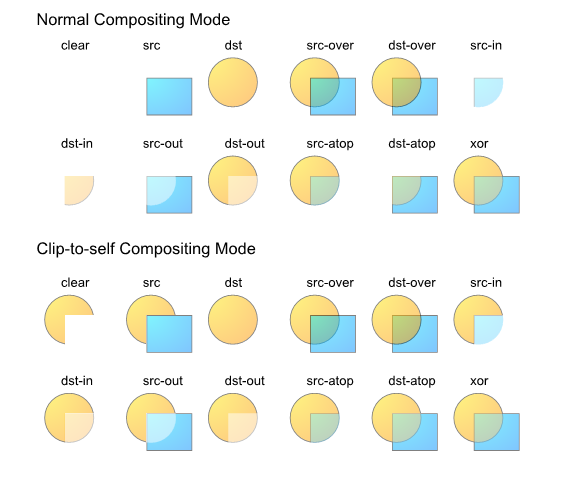
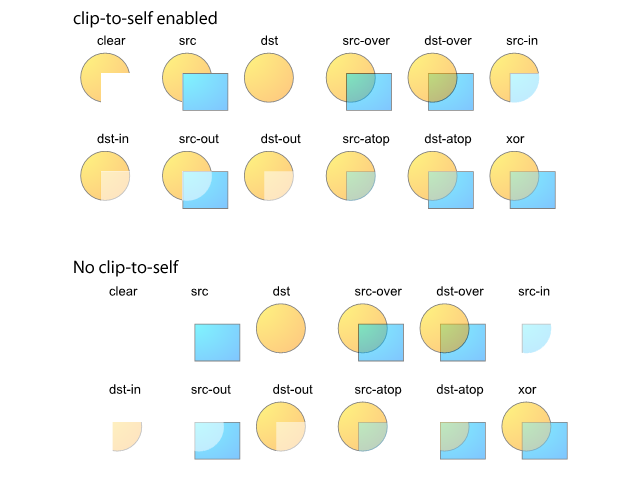
Finished off PD section.

diff --git a/compositing/index.html b/compositing/index.html
@@ -859,24 +859,18 @@ co = RGB(255, 127, 127)
 
   <dl>
    <dt>initial backdrop
-  </dl>
 
-  <dl></dl>
+   <dd> The intial backdrop is the backdrop selected for compositing the
+    group's first element. This will be the same as the group backdrop in a
+    non-isolated group, or a fully transparent backdrop for an isolated
+    group.
 
-  <p>The intial backdrop is the backdrop selected for compositing the group's
-   first element. This will be the same as the group backdrop in a
-   non-isolated group, or a fully transparent backdrop for an isolated group.
-   
-
-  <dl>
    <dt>group backdrop
+
+   <dd> The group backdrop is the result of compositing all elements up to
+    but not including the frist element in the group. The use of <a
+    href="#knockoutgroups">knockout groups</a> changes this definition.
   </dl>
-
-  <dl></dl>
-
-  <p>The group backdrop is the result of compositing all elements up to but
-   not including the frist element in the group. The use of <a
-   href="#knockoutgroups">knockout groups</a> changes this definition.
 
   <h3 id=groupinvariance><span class=secno>4.1. </span>Group invariance</h3>
 
@@ -917,7 +911,9 @@ co = RGB(255, 127, 127)
    Instead, only the elements that are behind the knockout group are included
    in the backdrop.
 
-  <div class=example> <img src="examples/knockout.png"></div>
+  <div class=example>
+   <p style="text-align:center"><img src="examples/knockout.png"></p>
+  </div>
 
   <p> The above example demonstrates two versions of a group containing three
    squares (red, green, blue) that are 50% opaque. The group is composited
@@ -937,29 +933,44 @@ co = RGB(255, 127, 127)
    additional compositing operators allow for more complex interactions
    between the shapes of elements being composited. The compositing operators
    are described in <a href="#porterduffcompositingoperators">‘<code
-   class=css>The Porter-Duff compositing operators</code>’</a>. Porter Duff
-   compositing is based on a model of a pixel in which two shapes (source and
-   destination) may contribute to the final colour of the pixel. The pixel is
-   divided into 4 sub-pixel regions and each region represents a possible
-   combination of source and destination.<br>
+   class=css>The Porter-Duff compositing operators</code>’</a>. The
+   operators that applies to an element or group is selected using the <a
+   href="#propdef-alpha-compositing">alpha-compositing</a>property.
+
+  <p> Porter Duff compositing is based on a model of a pixel in which two
+   shapes (source and destination) may contribute to the final colour of the
+   pixel. The pixel is divided into 4 sub-pixel regions and each region
+   represents a possible combination of source and destination.<br>
    <br>
    The four regions are:
 
-  <ul>
-   <li>Source Only – Where only the source contributes to the pixel colour
+  <dl>
+   <dt>Source Only
 
-   <li>Destination only – where only the destination contributes to the
-    pixel colour
+   <dd>Where only the source contributes to the pixel colour
 
-   <li>Both - Source and Destination – where both the source and
-    destination may combine to define the pixel colour
+   <dt>Destination only
 
-   <li>None - No source or Destination – where neither make a contribution
-    to the final pixel colour
-  </ul>
+   <dd>where only the destination contributes to the pixel colour
+
+   <dt>Both
+
+   <dd>Source and Destination – where both the source and destination may
+    combine to define the pixel colour
+
+   <dt>None
+
+   <dd>No source or Destination – where neither make a contribution to the
+    final pixel colour
+  </dl>
+
+  <p class=note>Destination is synonymous with backdrop. The term destination
+   is used in this section as this is considered the standard when working
+   with Porter Duff compositing. Additionally, the compositing operators use
+   ‘<code class=property>dest</code>’ in their names.
 
   <div class=figure>
-   <p style="text-align:center"><img src="examples/PD_regions.svg">
+   <p style="text-align:center"><img src="examples/PD_regions.svg"></p>
   </div>
 
   <p>The contribution from each region to the final pixel colour is defined
@@ -1224,40 +1235,54 @@ None = (1 – 0.5)(1 – 0.5) = 0.25
   <h3 id=groupcompositing><span class=secno>5.2. </span>Group compositing
    behavior with Porter Duff modes</h3>
 
-  <p><span class=issue>DRAFT.This proposal needs more discussion.</span><br>
-
   <h4 id=groupcompositingisolation><span class=secno>5.2.1. </span>Isolated
    groups and Porter Duff modes</h4>
 
-  <p>Using Porter Duff within an isolated group has the effect of making the
-   backdrop empty for the first element within the group. Subsequent elements
-   are composited with the result of the previous composites.
+  <p><span class=issue>NA: We need to decide whether we merge
+   enable-background and isolation. Personally, I think we should. We could
+   possibly have a third value for isolation which isolates only the blend
+   modes.</span><br>
+
+  <p> When compositing the elements within an isolated group, the elements
+   are composited over an empty (RGBA(0, 0, 0, 0)) initial backdrop. If the
+   bottom element in the group uses a Porter-Duff compositing operator which
+   is dependent on the backdrop, such as dest, source-in, dest-in, dest-out
+   or src-atop, then the result of the composite will be empty. Subsequent
+   elements within the group are composited with the result of the first
+   composite.
 
   <h4 id=groupcompositingknockout><span class=secno>5.2.2. </span>Knockout
    groups and Porter Duff modes</h4>
 
-  <p> Knock out groups have the effect, prior to any compositing, of clearing
-   the backdrop anywhere that the source shape exists, this is independent of
-   the source alpha. Knock-out can also be thought of as inserting a clear
-   operation with clip-to-self enabled between each element in the
-   compositing stack.
+  <p> Every element within a knock-out group is composited with the initial
+   backdrop. This means, that for every element within the group, the
+   backdrop for the compositing of that element, is the initial backdrop.
+
+  <p> In the example below, the elements within the group (the circle and the
+   square) are composited using the <a
+   href="#porterduffcompositingoperators_srcatop">src-atop</a> operator, with
+   only the hexagon. This has the effect of ‘<code class=css>knocking
+   out</code>’ the circle, where it is overlapped by the square.<br>
+   Additionally, because the src-atop Porter-Duff operator is used, the
+   source shape (either the square or the circle) is only placed where the
+   backdrop exists (the backdrop is always the hexagon due to the knock-out
+   mode).
+
+  <div class=example><img src="examples/pd-knockout.png"></div>
 
   <h4 id=groupcompositingcliptoself><span class=secno>5.2.3. </span>Clip to
    self behavior</h4>
 
-  <p> <span class=issue>NA: Do we use bounding box for clip to self or areas
-   where shape exists (α > 0)?</span> When compositing, the areas of the
-   composite that may be modified by the compositing operation, must fall
-   within the bounding box of th element being composited (i.e. α > 0). This
-   is known as ‘<code class=css>clip to self</code>’ in some graphics
-   libraries. The alternative is to not clip the compositing operation at
-   all. The results can be seen below. Some of the Porter Duff operators are
-   unchanged, because they normally have no effect outside the source region.
-   The changes can be seen in the clear, src, src-in, dst-in, src-out and
-   dst-atop. <span class=issue>NA: Fix the image so it is relevant to the
-   text - once text finalised.</span>
+  <p> When compositing, the areas of the composite that may be modified by
+   the compositing operation, must fall within the shape of the element being
+   composited (i.e. where α > 0). This is known as ‘<code class=css>clip
+   to self</code>’ in some graphics libraries. The alternative is to not
+   clip the compositing operation at all. The results can be seen below. Some
+   of the Porter Duff operators are unchanged, because they normally have no
+   effect outside the source region. The changes can be seen in the clear,
+   src, src-in, dst-in, src-out and dst-atop.
 
-  <div class=figure> <img src="examples/clip-to-self.png"></div>
+  <div class=figure><img src="examples/clip-to-self.png"></div>
 
   <h2 id=blending><span class=secno>6. </span>Blending</h2>
 

diff --git a/compositing/Compositing.src.html b/compositing/Compositing.src.html
@@ -523,15 +523,15 @@ color and alpha information. This element is then composited onto the group back
 Steps shall be taken to ensure the group backdrop makes only a single contribution to the final composite.
 <dl>
 <dt>initial backdrop</dt>
-<dl>
+<dd>
 The intial backdrop is the backdrop selected for compositing the group's first element. This will be the same as the group backdrop in a non-isolated
 group, or a fully transparent backdrop for an isolated group.
-</dl>
+</dd>
 <dt>group backdrop</dt>
-<dl>
+<dd>
 The group backdrop is the result of compositing all elements up to but not including the frist element in the group.
 The use of <a href="#knockoutgroups">knockout groups</a> changes this definition.
-</dl>
+</dd>
 </dt>
 </p>
 
@@ -560,7 +560,7 @@ In a knockout group, each individual element shall be composited with the initia
 When calculating the <a href="#backdrop">backdrop</a> for an element inside a knockout group, the elements of the group are ignored. Instead, only the elements that are behind the knockout group are included in the backdrop.
 </p>
 <div class="example">
-<img src="examples/knockout.png"/>
+<p style="text-align:center"><img src="examples/knockout.png"/></p>
 </div>
 <p>
 The above example demonstrates two versions of a group containing three squares (red, green, blue) that are 50% opaque. The group is composited over a grey striped background.<br />
@@ -572,20 +572,24 @@ It can be seen that where knock-out="knock-out", each element within the group i
 <p>
 <a href="#simplealphacompositing">Simple alpha compositing</a> uses the source-over Porter Duff compositing operator. Additional compositing operators exist and may be specified with the <a href="#propdef-alpha-compositing">alpha-compositing property</a>.
 The additional compositing operators allow for more complex interactions between the shapes of elements being composited. The compositing operators are described in <a href="#porterduffcompositingoperators">'The Porter-Duff compositing operators'</a>.
+The operators that applies to an element or group is selected using the <a href="#propdef-alpha-compositing">alpha-compositing</a>property.
+</p>
+<p>
 Porter Duff compositing is based on a model of a pixel in which two shapes (source and destination) may contribute to the final colour of the pixel. The pixel is divided into 4 sub-pixel regions and each region represents a possible combination of source and destination.<br/>
 <br />
 The four regions are:
-<ul>
-<li>Source Only – Where only the source contributes to the pixel colour</li>
-<li>Destination only – where only the destination contributes to the pixel colour</li>
-<li>Both - Source and Destination – where both the source and destination may combine to define the pixel colour</li>
-<li>None - No source or Destination – where neither make a contribution to the final pixel colour</li>
-</ul>
+<dl>
+<dt>Source Only</dt><dd>Where only the source contributes to the pixel colour</dd>
+<dt>Destination only</dt><dd>where only the destination contributes to the pixel colour</dd>
+<dt>Both</dt><dd>Source and Destination – where both the source and destination may combine to define the pixel colour</dd>
+<dt>None</dt><dd>No source or Destination – where neither make a contribution to the final pixel colour</dd>
+</dl>
+
+<p class="note">Destination is synonymous with backdrop. The term destination is used in this section as this is considered the standard when working with Porter Duff compositing. Additionally, the compositing operators use 'dest' in their names.</p>
 
 <div class="figure">
-<p style="text-align:center"><img src="examples/PD_regions.svg"/>
+<p style="text-align:center"><img src="examples/PD_regions.svg"/></p>
 </div>
-
 The contribution from each region to the final pixel colour is defined by the coverage of the shape at that pixel, and the operator in use.
 Coverage is specified in terms of alpha. Full alpha (1) implies full coverage, while zero alpha implies no coverage.
 This means that the area of each region within the sub-pixel is dependent on the coverage of each shape contributing to the pixel.
@@ -745,28 +749,33 @@ Where: co is the output colour pre-multiplied with the output alpha [0 <= co <= 
     co = αa x Ca + αb x Cb;
     αo = αa + αb
 </pre>
+
 <h3 id="groupcompositing">Group compositing behavior with Porter Duff modes</h3>
-<span class="issue">DRAFT.This proposal needs more discussion.</span><br/>
 <h4 id="groupcompositingisolation">Isolated groups and Porter Duff modes</h4>
-<p>Using Porter Duff within an isolated group has the effect of making the backdrop empty for the first element within the group. Subsequent elements are composited with the result of the previous composites.</p>
+<span class="issue">NA: We need to decide whether we merge enable-background and isolation. Personally, I think we should. We could possibly have a third value for isolation which isolates only the blend modes, since hte main point of isolation is to restrict blend modes to certain elements</span><br/>
+<p>
+When compositing the elements within an isolated group, the elements are composited over an empty (RGBA(0, 0, 0, 0)) initial backdrop. If the bottom element in the group uses a Porter-Duff compositing operator
+which is dependent on the backdrop, such as dest, source-in, dest-in, dest-out or src-atop, then the result of the composite will be empty. Subsequent elements within the group are composited with the result of the first composite.
+</p>
 
 <h4 id="groupcompositingknockout">Knockout groups and Porter Duff modes</h4>
 <p>
-Knock out groups have the effect, prior to any compositing, of clearing the backdrop anywhere that the source shape exists, this is independent of the source alpha.
-Knock-out can also be thought of as inserting a clear operation with clip-to-self enabled between each element in the compositing stack.
+Every element within a knock-out group is composited with the initial backdrop.
+This means, that for every element within the group, the backdrop for the compositing of that element, is the initial backdrop.
+</p><p>
+In the example below, the elements within the group (the circle and the square) are composited using the <a href="#porterduffcompositingoperators_srcatop">src-atop</a> operator, with only the hexagon.
+This has the effect of 'knocking out' the circle, where it is overlapped by the square.<br />
+Additionally, because the src-atop Porter-Duff operator is used, the source shape (either the square or the circle) is only placed where the backdrop exists (the backdrop is always the hexagon due to the knock-out mode).
+<div class="example"><img src="examples/pd-knockout.png" /></div>
 </p>
 
 <h4 id="groupcompositingcliptoself">Clip to self behavior</h4>
 <p>
-<span class="issue">NA: Do we use bounding box for clip to self or areas where shape exists (α > 0)?</span>
-When compositing, the areas of the composite that may be modified by the compositing operation, must fall within the bounding box of th element being composited (i.e. α > 0).
+When compositing, the areas of the composite that may be modified by the compositing operation, must fall within the shape of the element being composited (i.e. where α > 0).
 This is known as 'clip to self' in some graphics libraries.
 The alternative is to not clip the compositing operation at all. The results can be seen below.
 Some of the Porter Duff operators are unchanged, because they normally have no effect outside the source region. The changes can be seen in the clear, src, src-in, dst-in, src-out and dst-atop.
-<span class="issue">NA: Fix the image so it is relevant to the text - once text finalised.</span>
-<div class="figure">
-<img src="examples/clip-to-self.png" />
-</div>
+<div class="figure"><img src="examples/clip-to-self.png" /></div>
 </p>
 
 <h2 id="blending">Blending</h2>
